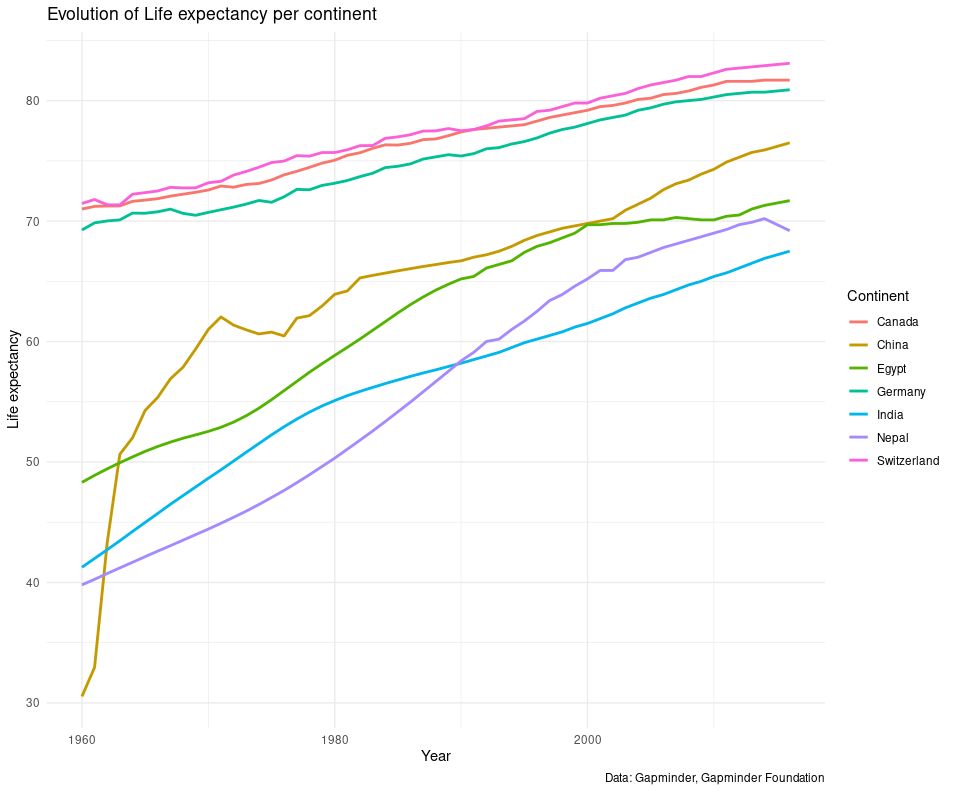
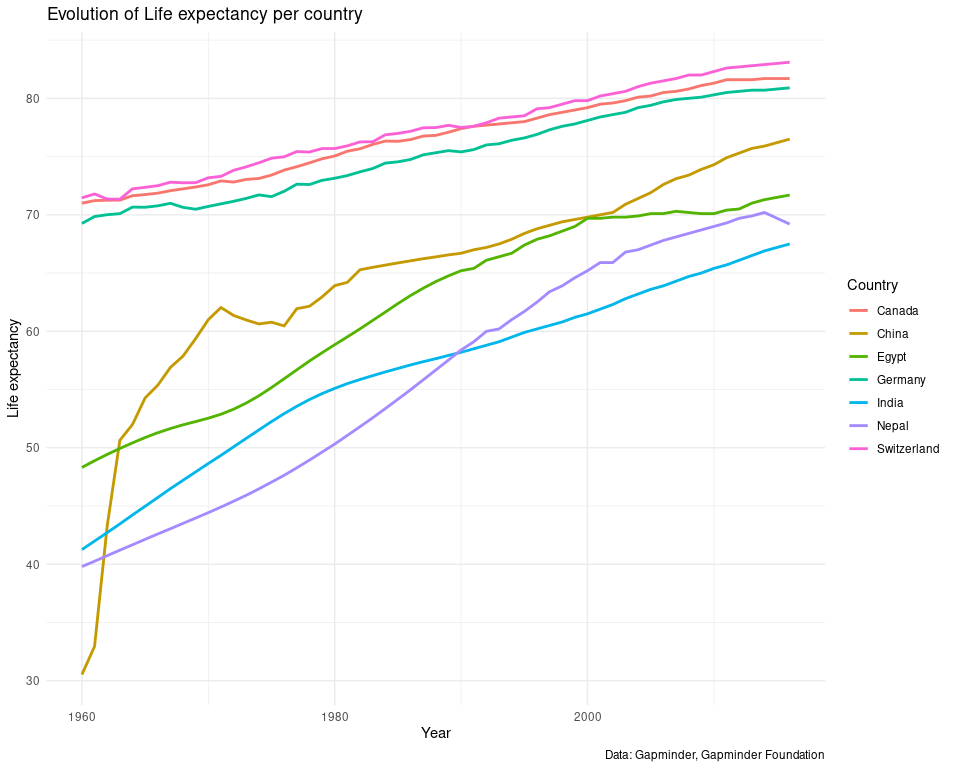
update time series and added allisonhorst comics

diff --git a/slides/chapter4_01.md b/slides/chapter4_01.md
@@ -57,7 +57,10 @@ gg_miss_var(airquality, show_pct = T)
 
 <div style="text-align:center"><img src="var_miss_airquality.png" alt=" " width="40%">
 
+---
 
+
+<div style="text-align:center"><img src="janitor.png" alt=" " width="40%">
 
 ---
 We can also observe that the variables names of this dataset contain capitals letters and dots. When working with large datasets, it is preferred to avoid using capitals or punctuations in order to avoid potential errors in the future analysis. We suggest to follow the conventional [snake case](https://en.wikipedia.org/wiki/Snake_case) styling, which can be achieved using the `janitor` package.

diff --git a/slides/chapter4_03.md b/slides/chapter4_03.md
@@ -6,6 +6,11 @@ type: slides
 
 ---
 
+<div style="text-align:center"><img src="dplyr1.png" alt=" " width="50%"></div>
+
+
+---
+
 # Rename variables
 
 Sometimes you may want to rename some of the variables that are present in your dataframe. One approach is to do this manually by calling the function `colnames(df)`, and then modify the considered object. Alternatively, the function `rename()` in the `dplyr` package allows to handle this in a much easier manner.

diff --git a/slides/chapter5_04.md b/slides/chapter5_04.md
@@ -99,7 +99,7 @@ ggplot(df_peng_stats, aes(x = bill_ratio, y = species, fill = species)) +
 
 ---
 
-<div style="text-align:center"><img src="mdens6.png" alt=" " width="50%"></div>
+<div style="text-align:center"><img src="mdens6.png" alt=" " width="40%"></div>
 
 ---
 
@@ -218,4 +218,4 @@ g4
 
 ---
 
-<div style="text-align:center"><img src="mdens5.png" alt=" " width="45%"></div>
+<div style="text-align:center"><img src="mdens5.png" alt=" " width="35%"></div>

diff --git a/slides/chapter5_01.md b/slides/chapter5_01.md
@@ -6,6 +6,10 @@ type: slides
 
 ---
 
+<div style="text-align:center"><img src="ggplot2.png" alt=" " width="30%"></div>
+
+---
+
 ## Introducing ggplot2 and the grammar of graphics
 
 [`ggplot2`](https://ggplot2.tidyverse.org/) is a `R` package that provide a system to create graphics based on Wilkinson's [The Grammar of Graphics](https://www.springer.com/gp/book/9780387245447). 

diff --git a/slides/chapter5_06.md b/slides/chapter5_06.md
@@ -94,11 +94,11 @@ gapminder %>%
   geom_line(size=1)+ 
   theme_minimal() +
   labs(
-    title = "Evolution of Life expectancy per continent",
+    title = "Evolution of Life expectancy per country",
     caption = "Data: Gapminder, Gapminder Foundation",
     x = "Year", 
     y = "Life expectancy",
-    color = "Continent"
+    color = "Country"
   )
 ```
 

diff --git a/slides/chapter4_02.md b/slides/chapter4_02.md
@@ -152,6 +152,11 @@ iris %>% slice_tail(n = 3)
 
 ---
 
+<div style="text-align:center"><img src="dplyr_filter.jpg" alt=" " width="50%"></div>
+
+---
+
+
 # Filter observations
 
 
